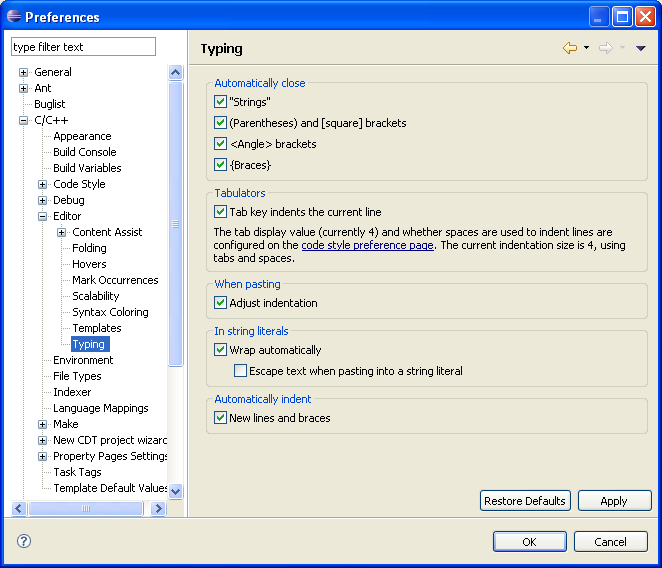
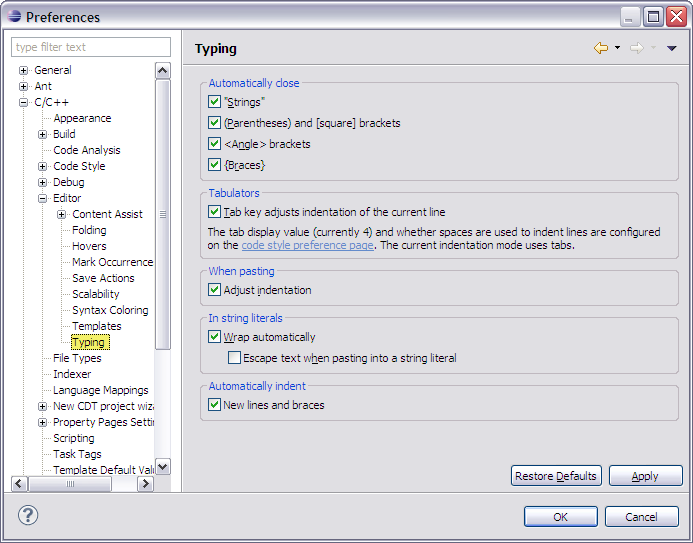
Revised Editor pref panels including: Folding, Hovers, Mark Occurrences, Save Actions, Scalability, Syntax Coloring, Templates, and Typing

Changed region(s): [[0.0, 0.0, 1.0, 1.0]]

diff --git a/all/org.eclipse.cdt.doc.user/reference/cdt_u_c_editor_mark_occurrences.htm b/all/org.eclipse.cdt.doc.user/reference/cdt_u_c_editor_mark_occurrences.htm
@@ -3,37 +3,46 @@
 <head>
 <meta name="copyright" content="Copyright (c) IBM Corporation and others 2000, 2008. This page is made available under license. For full details see the LEGAL in the documentation book that contains this page.">
 <meta http-equiv="Content-Type" content="text/html; charset=iso-8859-1">
-<title>Mark Occurrences</title>
+<title>Mark Occurrences preferences</title>
 <link rel="stylesheet" href="../book.css" charset="ISO-8859-1" type="text/css">
 <script language="JavaScript" src="PLUGINS_ROOT/org.eclipse.help/livehelp.js" type="text/javascript"> </script>
 </head>
+
 <body>
-<h1>Mark Occurrences</h1>
-<p>Indicate your preferences for the Mark Occurrences settings on the <a class="command-link" href='javascript:executeCommand("org.eclipse.ui.window.preferences(preferencePageId=org.eclipse.cdt.ui.preferences.MarkOccurrencesPreferencePage)")'> <img src="PLUGINS_ROOT/org.eclipse.help/command_link.png" alt="Opens the Mark Occurrences preference page"> <strong>C/C++ &gt; Editor &gt; Mark Occurrences</strong></a> preference page.</p>
-<table border="1" cellspacing="0" cellpadding="5">
+<h1>Mark Occurrences preferences</h1>
+<p>Use the <img src="../images/command_link.png" border="0" alt="" /> <a class="command-link" href='javascript:executeCommand("org.eclipse.ui.window.preferences(preferencePageId=org.eclipse.cdt.ui.preferences.MarkOccurrencesPreferencePage)")'>Mark Occurrences</a> preference panel to set annotations for the C/C++ Editor view.</p>
+<p><img src="../images/editor_mark_preferences.png"  alt="Mark Occurrences Preference Panel"></p>
+
+<table width="600px" border="1" cellspacing="0" cellpadding="5">
+	<caption><strong>Mark Occurrences Preference Options</strong></caption>
 	<thead>
 		<tr>
-			<th>
-			<p>Option</p>
-			</th>
-			<th>
-			<p>Description</p>
-			</th>
-			<th>
-			<p>Default</p>
-			</th>
+			<th><b>Option</b></th>
+			<th><b>Description</b></th>
+			<th><b>Default</b></th>
 		</tr>
 	</thead>
 	<tbody>
 		<tr>
 			<td valign="top">
-			<p>Mark occurrences of the selected element in the current file</p>
+			<b>Mark occurrences of the selected element in the current file</b>
 			</td>
 			<td valign="top">
-			<p>If enabled, then you'll see within a file, where a variable, function, method, type, macro or other element is referenced.</p>
+			If enabled, then you'll see within a file, where a variable, function, method, type, macro or other element is referenced.
 			</td>
 			<td valign="top">
-			<p>On</p>
+			On
+			</td>
+		</tr>
+		<tr>
+			<td valign="top">
+			<b>Keep marks when the selection changes</b>
+			</td>
+			<td valign="top">
+			If enabled, don't change the location of the mark occurrence when a new selection is made.
+			</td>
+			<td valign="top">
+			On
 			</td>
 		</tr>
 	</tbody>

diff --git a/all/org.eclipse.cdt.doc.user/reference/cdt_u_c_editor_typing.htm b/all/org.eclipse.cdt.doc.user/reference/cdt_u_c_editor_typing.htm
@@ -6,19 +6,27 @@
 	<meta http-equiv="Content-Type" content="text/html; charset=UTF-8">
 	<title>Typing preferences</title>
 	<link rel="stylesheet" type="text/css" href="../help.css">
+	<script language="JavaScript" src="PLUGINS_ROOT/org.eclipse.help/livehelp.js"></script>
 </head>
 <body>
 
 <h1>Typing preferences</h1>
 
-<p>Use the <strong>Typing</strong> preference panel to assist in formatting input as you type. Click <strong>Window &gt; Preferences &gt; C/C++ &gt; Editor &gt; Typing</strong> to make changes.</p>
-<img src="../images/editor_typing_preferences.png"  alt="Typing Preferences">
-	<table width="600px" cellpadding="5" cellspacing="0" border="1" >
+<p>Use the <img src="../images/command_link.png" border="0" alt="" /> <a class="command-link" href='javascript:executeCommand("org.eclipse.ui.window.preferences(preferencePageId=org.eclipse.cdt.internal.ui.preferences.SmartTypingPreferencePage)")'>Typing</a> preference panel to assist in formatting input as you type.</p>
+<p><img src="../images/editor_typing_preferences.png"  alt="Typing Preferences"></p>
+
+<table width="600px" cellpadding="5" cellspacing="0" border="1" >
 	<caption><strong>Typing Preference Options</strong></caption>
 	<colgroup>
 		<col width="30%" valign="top" >
 		<col width="70%" valign="top" >
 	</colgroup>
+	<thead>
+		<tr>
+			<th><b>Option</b></th>
+			<th><b>Description</b></th>
+		</tr>
+	</thead>
 	<tbody>
 		<tr>
 			<td><strong>"Strings"</strong></td>
@@ -37,7 +45,7 @@
 			<td>If enabled, automatically close curly braces.</td>
 		</tr>
 		<tr>
-			<td><strong>Tab key indents the current line</strong></td>
+			<td><strong>Tab key adjusts indentation of the current line</strong></td>
 			<td>If enabled, indent the current line when the tab key is pressed.</td>
 		</tr>
 		<tr>
@@ -53,7 +61,7 @@
 			<td>If enabled, special characters in pasted strings are escaped when pasted into an existing string literal.</td>
 		</tr>
 		<tr>
-			<td><strong>Automatically indent - New lines and braces</strong></td>
+			<td><strong>New lines and braces</strong></td>
 			<td>If enabled, a new line or brace will be indented according to the <a href="cdt_u_c_code_style_pref.htm">Code Style preferences</a>. 
 			If disabled, the default Text Editor indentation strategy is applied (copy indent from previous line)</td>
 		</tr>

diff --git a/all/org.eclipse.cdt.doc.user/reference/cdt_u_c_editor_scalability.htm b/all/org.eclipse.cdt.doc.user/reference/cdt_u_c_editor_scalability.htm
@@ -6,20 +6,27 @@
 	<meta http-equiv="Content-Type" content="text/html; charset=UTF-8">
 	<title>Editor Scalability preferences</title>
 	<link rel="stylesheet" type="text/css" href="../help.css">
+	<script language="JavaScript" src="PLUGINS_ROOT/org.eclipse.help/livehelp.js"></script>
 </head>
 <body>
 
 <h1>Scalability preferences</h1>
 
-<p>Use the <strong>Scalability</strong> preference panel to configure options for dealing with large source files. Click <strong>Window &gt; Preferences &gt; C/C++ &gt; Editor &gt; Scalability</strong> to make changes.</p>
-<img src="../images/editor_scalability_preferences.png"  alt="Scalability Preferences">
+<p>Use the <img src="../images/command_link.png" border="0" alt="" /> <a class="command-link" href='javascript:executeCommand("org.eclipse.ui.window.preferences(preferencePageId=org.eclipse.cdt.internal.ui.preferences.ScalabilityPreferencePage)")'>Scalability</a> preference panel to configure options for dealing with large source files.</p>
+<p><img src="../images/editor_scalability_preferences.png"  alt="Scalability Preferences"></p>
 
-	<table width="600px" cellpadding="5" cellspacing="0" border="1" >
+<table width="600px" cellpadding="5" cellspacing="0" border="1" >
 	<caption><strong>Scalability Preference Options</strong></caption>
 	<colgroup>
-		<col width="30%" valign="top" >
-		<col width="70%" valign="top" >
+		<col width="35%" valign="top" >
+		<col width="65%" valign="top" >
 	</colgroup>
+	<thead>
+		<tr>
+			<th><b>Option</b></th>
+			<th><b>Description</b></th>
+		</tr>
+	</thead>
 	<tbody>
 		<tr>
 			<td><strong>Alert me when scalability mode will be turned on</strong></td>
@@ -53,7 +60,7 @@
 			<td>If enabled, content assist proposals which require parsing the file will not be available.</td>
 		</tr>
 		<tr>
-			<td><strong>Disable content assist auto activation</strong></td>
+			<td><strong>Disable content assist auto-activation</strong></td>
 			<td>If enabled, content assist will not be activated automatically on trigger sequences, like '.', '::' or '->'.</td>
 		</tr>
 	</tbody>

diff --git a/all/org.eclipse.cdt.doc.user/reference/cdt_u_c_editor_hov.htm b/all/org.eclipse.cdt.doc.user/reference/cdt_u_c_editor_hov.htm
@@ -6,19 +6,26 @@
 	<meta http-equiv="Content-Type" content="text/html; charset=UTF-8">
 	<title>Hover preferences</title>
 	<link rel="stylesheet" type="text/css" href="../help.css">
+	<script language="JavaScript" src="PLUGINS_ROOT/org.eclipse.help/livehelp.js"></script>
 </head>
 <body>
 
 <h1>Hovers preferences</h1>
 
-<p>You can customize the appearance of the C/C++ editor hover behavior on the <strong>Hovers</strong> panel of the Preferences window.</p>
-<p><img src="../images/editor_hover_preferences.png" alt="Editor Hover Preferences Window"></p>
-<table width="600px" cellpadding="5" cellspacing="0" border="1" >
+<p>Use the <img src="../images/command_link.png" border="0" alt="" /> <a class="command-link" href='javascript:executeCommand("org.eclipse.ui.window.preferences(preferencePageId=org.eclipse.cdt.internal.ui.preferences.CEditorHoverPreferencePage)")'>Hovers</a> preference panel to customize the C/C++ editor hover behavior.</p>
+<p><img src="../images/editor_hover_preferences.png" alt="Editor Hover Preferences Panel"></p>
+<table width="600px" cellpadding="4" cellspacing="0" border="1" fgcolor="DDD" >
 	<caption><strong>Hovers Preference Options</strong></caption>
 	<colgroup>
 		<col width="30%" valign="top" >
 		<col width="70%" valign="top" >
 	</colgroup>
+	<thead>
+		<tr >
+			<th><b>Option</b></th>
+			<th><b>Description</b></th>
+		</tr>
+	</thead>
 	<tbody>
 		<tr>
 			<td><strong>Enable editor problem annotation</strong></td>
@@ -27,6 +34,10 @@
 		<tr>
 			<td><strong>Text Hover key modifier preferences</strong></td>
 			<td>You can select hot-keys to enable alternate hover behavior. For example, a mouse over while pressing the &lt;Ctrl&gt; key will link to the element's source declaration.</td>
+		</tr>
+		<tr>
+			<td><strong>Pressed key modifier while hovering</strong></td>
+			<td>Enter a key modifier for the selected hover name.</td>
 		</tr>
 	</tbody>
 </table>

diff --git a/all/org.eclipse.cdt.doc.user/reference/cdt_u_c_editor_color.htm b/all/org.eclipse.cdt.doc.user/reference/cdt_u_c_editor_color.htm
@@ -6,22 +6,29 @@
 	<meta http-equiv="Content-Type" content="text/html; charset=UTF-8">
 	<title>Syntax Coloring preferences</title>
 	<link rel="stylesheet" type="text/css" href="../help.css">
+	<script language="JavaScript" src="PLUGINS_ROOT/org.eclipse.help/livehelp.js"></script>
 </head>
 
 <body>
 
 <h1>Syntax Coloring preferences</h1>
 
-<p>The <strong>Syntax Coloring</strong> preference panel specifies how C/C++ source code is rendered. Each element category (Code, Comments, and Preprocessor) contains a list of language elements that may be rendered with its own color and style.</p>
+<p>Use the <img src="../images/command_link.png" border="0" alt="" /> <a class="command-link" href='javascript:executeCommand("org.eclipse.ui.window.preferences(preferencePageId=org.eclipse.cdt.internal.ui.preferences.CEditorColoringPreferencePage)")'>Syntax Coloring</a> preference panel to specify how C/C++ source code is rendered. Each element category (Code, Comments, and Preprocessor) contains a list of language elements that may be rendered with its own color and style.</p>
 	<p>Note that general text editor settings such as the background color can be configured on the general <strong>Text Editors</strong> preference pages. Fonts may be configured on the general <strong>Colors and Fonts</strong> preference page</p>
 	<p><img src="../images/editor_color_preferences.png" alt="Syntax Coloring Preferences Page"></p>
 
-<table width="600px" cellpadding="5" cellspacing="0" border="1" >
+<table width="600px" cellpadding="5" cellspacing="0" border="1" fgcolor="DDD" >
 	<caption><strong>Syntax Coloring Preference Options</strong></caption>
 	<colgroup>
 		<col width="30%" valign="top" >
 		<col width="70%" valign="top" >
 	</colgroup>
+	<thead>
+		<tr>
+			<th><b>Option</b></th>
+			<th><b>Description</b></th>
+		</tr>
+	</thead>
 	<tbody>
 		<tr>
 			<td><strong>Enable semantic highlighting</strong></td>

diff --git a/all/org.eclipse.cdt.doc.user/reference/cdt_u_c_editor_folding.htm b/all/org.eclipse.cdt.doc.user/reference/cdt_u_c_editor_folding.htm
@@ -6,12 +6,13 @@
 	<meta http-equiv="Content-Type" content="text/html; charset=UTF-8">
 	<title>Folding preferences</title>
 	<link rel="stylesheet" type="text/css" href="../help.css">
+    <script language="JavaScript" src="PLUGINS_ROOT/org.eclipse.help/livehelp.js"></script>
 </head>
 <body>
 
 <h1>Folding preferences</h1>
 
-<p>You can customize the C/C++ editor folding behavior in the <strong>Folding</strong> panel of the Preferences window.</p>
+<p>Use the <img src="../images/command_link.png" border="0" alt="" /> <a class="command-link" href='javascript:executeCommand("org.eclipse.ui.window.preferences(preferencePageId=org.eclipse.cdt.internal.ui.preferences.FoldingPreferencePage)")'>Folding</a> preference panel to customize the C/C++ editor folding behavior.</p>
 <p><img src="../images/editor_folding_preferences.png" alt="Editor Folding Preferences Window"></p>
 <table width="600px" cellpadding="5" cellspacing="0" border="1" >
 	<caption><strong>Folding Preference Options</strong></caption>
@@ -21,7 +22,7 @@
 		<col width="10%" valign="top" align="center" >
 	</colgroup>
 	<tbody>
-		<tr>
+		<tr align="center" >
 			<td><strong>Option</strong></td>
 			<td><strong>Description</strong></td>
 			<td><strong>Default</strong></td>
@@ -39,6 +40,11 @@
 		<tr>
 			<td><strong>Enable folding of preprocessor branches (#if/#endif)</strong></td>
 			<td>If enabled, fold preprocessor branches.</td>
+			<td>&nbsp;</td>
+		</tr>
+		<tr>
+			<td><strong>Enable folding of control flow statements (if/else, do/while, for, switch)</strong></td>
+			<td>If enabled, fold control flow statements.</td>
 			<td>&nbsp;</td>
 		</tr>
 		<tr>

diff --git a/all/org.eclipse.cdt.doc.user/reference/cdt_u_c_editor_save_actions.htm b/all/org.eclipse.cdt.doc.user/reference/cdt_u_c_editor_save_actions.htm
@@ -6,20 +6,27 @@
 	<meta http-equiv="Content-Type" content="text/html; charset=UTF-8">
 	<title>Editor preferences</title>
 	<link rel="stylesheet" type="text/css" href="../help.css">
+	<script language="JavaScript" src="PLUGINS_ROOT/org.eclipse.help/livehelp.js"></script>
 </head>
 <body>
 
 <h1>Save actions</h1>
 
-<p>Use the <strong>Save Actions</strong> preference panel to configure actions performed by C/C++ editor while saving
-a file. Click <strong>Window &gt; Preferences &gt; C/C++ &gt; Editor &gt; Save Actions</strong> to make changes.</p>
+<p>Use the <img src="../images/command_link.png" border="0" alt="" /> <a class="command-link" href='javascript:executeCommand("org.eclipse.ui.window.preferences(preferencePageId=org.eclipse.cdt.internal.ui.preferences.SaveActionsPreferencePage)")'>Save Actions</a> preference panel to configure actions performed by the C/C++ editor while saving a file.</p>
+<p><img src="../images/editor_save_actions_preferences.png"  alt="Save Actions Preferences"></p>
 
 <table width="600px" cellpadding="5" cellspacing="0" border="1" >
-	<caption><strong>Editor Preference Options</strong></caption>
+	<caption><strong>Save Actions Preference Options</strong></caption>
 	<colgroup>
-		<col width="30%" valign="top" >
-		<col width="70%" valign="top" >
+		<col width="35%" valign="top" >
+		<col width="65%" valign="top" >
 	</colgroup>
+	<thead>
+		<tr>
+			<th><b>Option</b></th>
+			<th><b>Description</b></th>
+		</tr>
+	</thead>
 	<tbody>
 		<tr>
 			<td><strong>Remove trailing whitespace</strong></td>

diff --git a/all/org.eclipse.cdt.doc.user/reference/cdt_u_code_temp.htm b/all/org.eclipse.cdt.doc.user/reference/cdt_u_code_temp.htm
@@ -6,20 +6,27 @@
 	<meta http-equiv="Content-Type" content="text/html; charset=UTF-8">
 	<title>Templates preferences</title>
 	<link rel="stylesheet" type="text/css" href="../help.css">
+	<script language="JavaScript" src="PLUGINS_ROOT/org.eclipse.help/livehelp.js"></script>
 </head>
 <body>
 
 <h1>Templates preferences</h1>
 
-<p>Use the <strong>Templates</strong> preference panel to manipulate any of the common templates predefined within CDT or create your own. To modify, delete, export, 
+<p>Use the <img src="../images/command_link.png" border="0" alt="" /> <a class="command-link" href='javascript:executeCommand("org.eclipse.ui.window.preferences(preferencePageId=org.eclipse.cdt.internal.ui.preferences.CTemplatePreferencePage)")'>Templates</a> preference panel to manipulate any of the common templates predefined within CDT or create your own. To modify, delete, export, 
 import, or create your own templates click <strong>Window &gt; Preferences &gt; C/C++ &gt; Templates</strong>.</p>
-<img src="../images/code_templates.png"  alt="Templates Preferences">
+<p><img src="../images/code_templates.png"  alt="Templates Preferences"></p>
 	<table width="600px" cellpadding="5" cellspacing="0" border="1" >
 	<caption><strong>Templates Preference Options</strong></caption>
 	<colgroup>
 		<col width="30%" valign="top" >
 		<col width="70%" valign="top" >
 	</colgroup>
+	<thead>
+		<tr>
+			<th><b>Option</b></th>
+			<th><b>Description</b></th>
+		</tr>
+	</thead>
 	<tbody>
 		<tr>
 			<td><strong>New...</strong></td>

diff --git a/all/org.eclipse.cdt.doc.user/reference/cdt_u_c_code_style_pref.htm b/all/org.eclipse.cdt.doc.user/reference/cdt_u_c_code_style_pref.htm
@@ -15,14 +15,15 @@
 <p>Use the <img src="../images/command_link.png" border="0" alt="" /> <a class="command-link" href='javascript:executeCommand("org.eclipse.ui.window.preferences(preferencePageId=org.eclipse.cdt.ui.preferences.CodeFormatterPreferencePage)")'>Code Style</a> preference panel to configure your global code style profiles for smart typing features, like auto-indentation and formatting. Click <strong>Window &gt; Preferences &gt; C/C++ &gt; Code Style</strong> to make changes.</p>
 <p><img src="../images/code_style_preferences.png"  alt="Code Style Preferences"></p>
 <table border="1" cellspacing="0" cellpadding="5" width="600" summary="All options">
+	<caption><strong>Code Style Preference Options</strong></caption>
+	<colgroup>
+		<col width="30%" valign="top" >
+		<col width="70%" valign="top" >
+	</colgroup>
 	<thead>
 		<tr>
-			<th>
-			<b>Option</b>
-			</th>
-			<th>
-			<b>Description</b>
-			</th>
+			<th><b>Option</b></th>
+			<th><b>Description</b></th>
 		</tr>
 	</thead>
 	<tbody>
